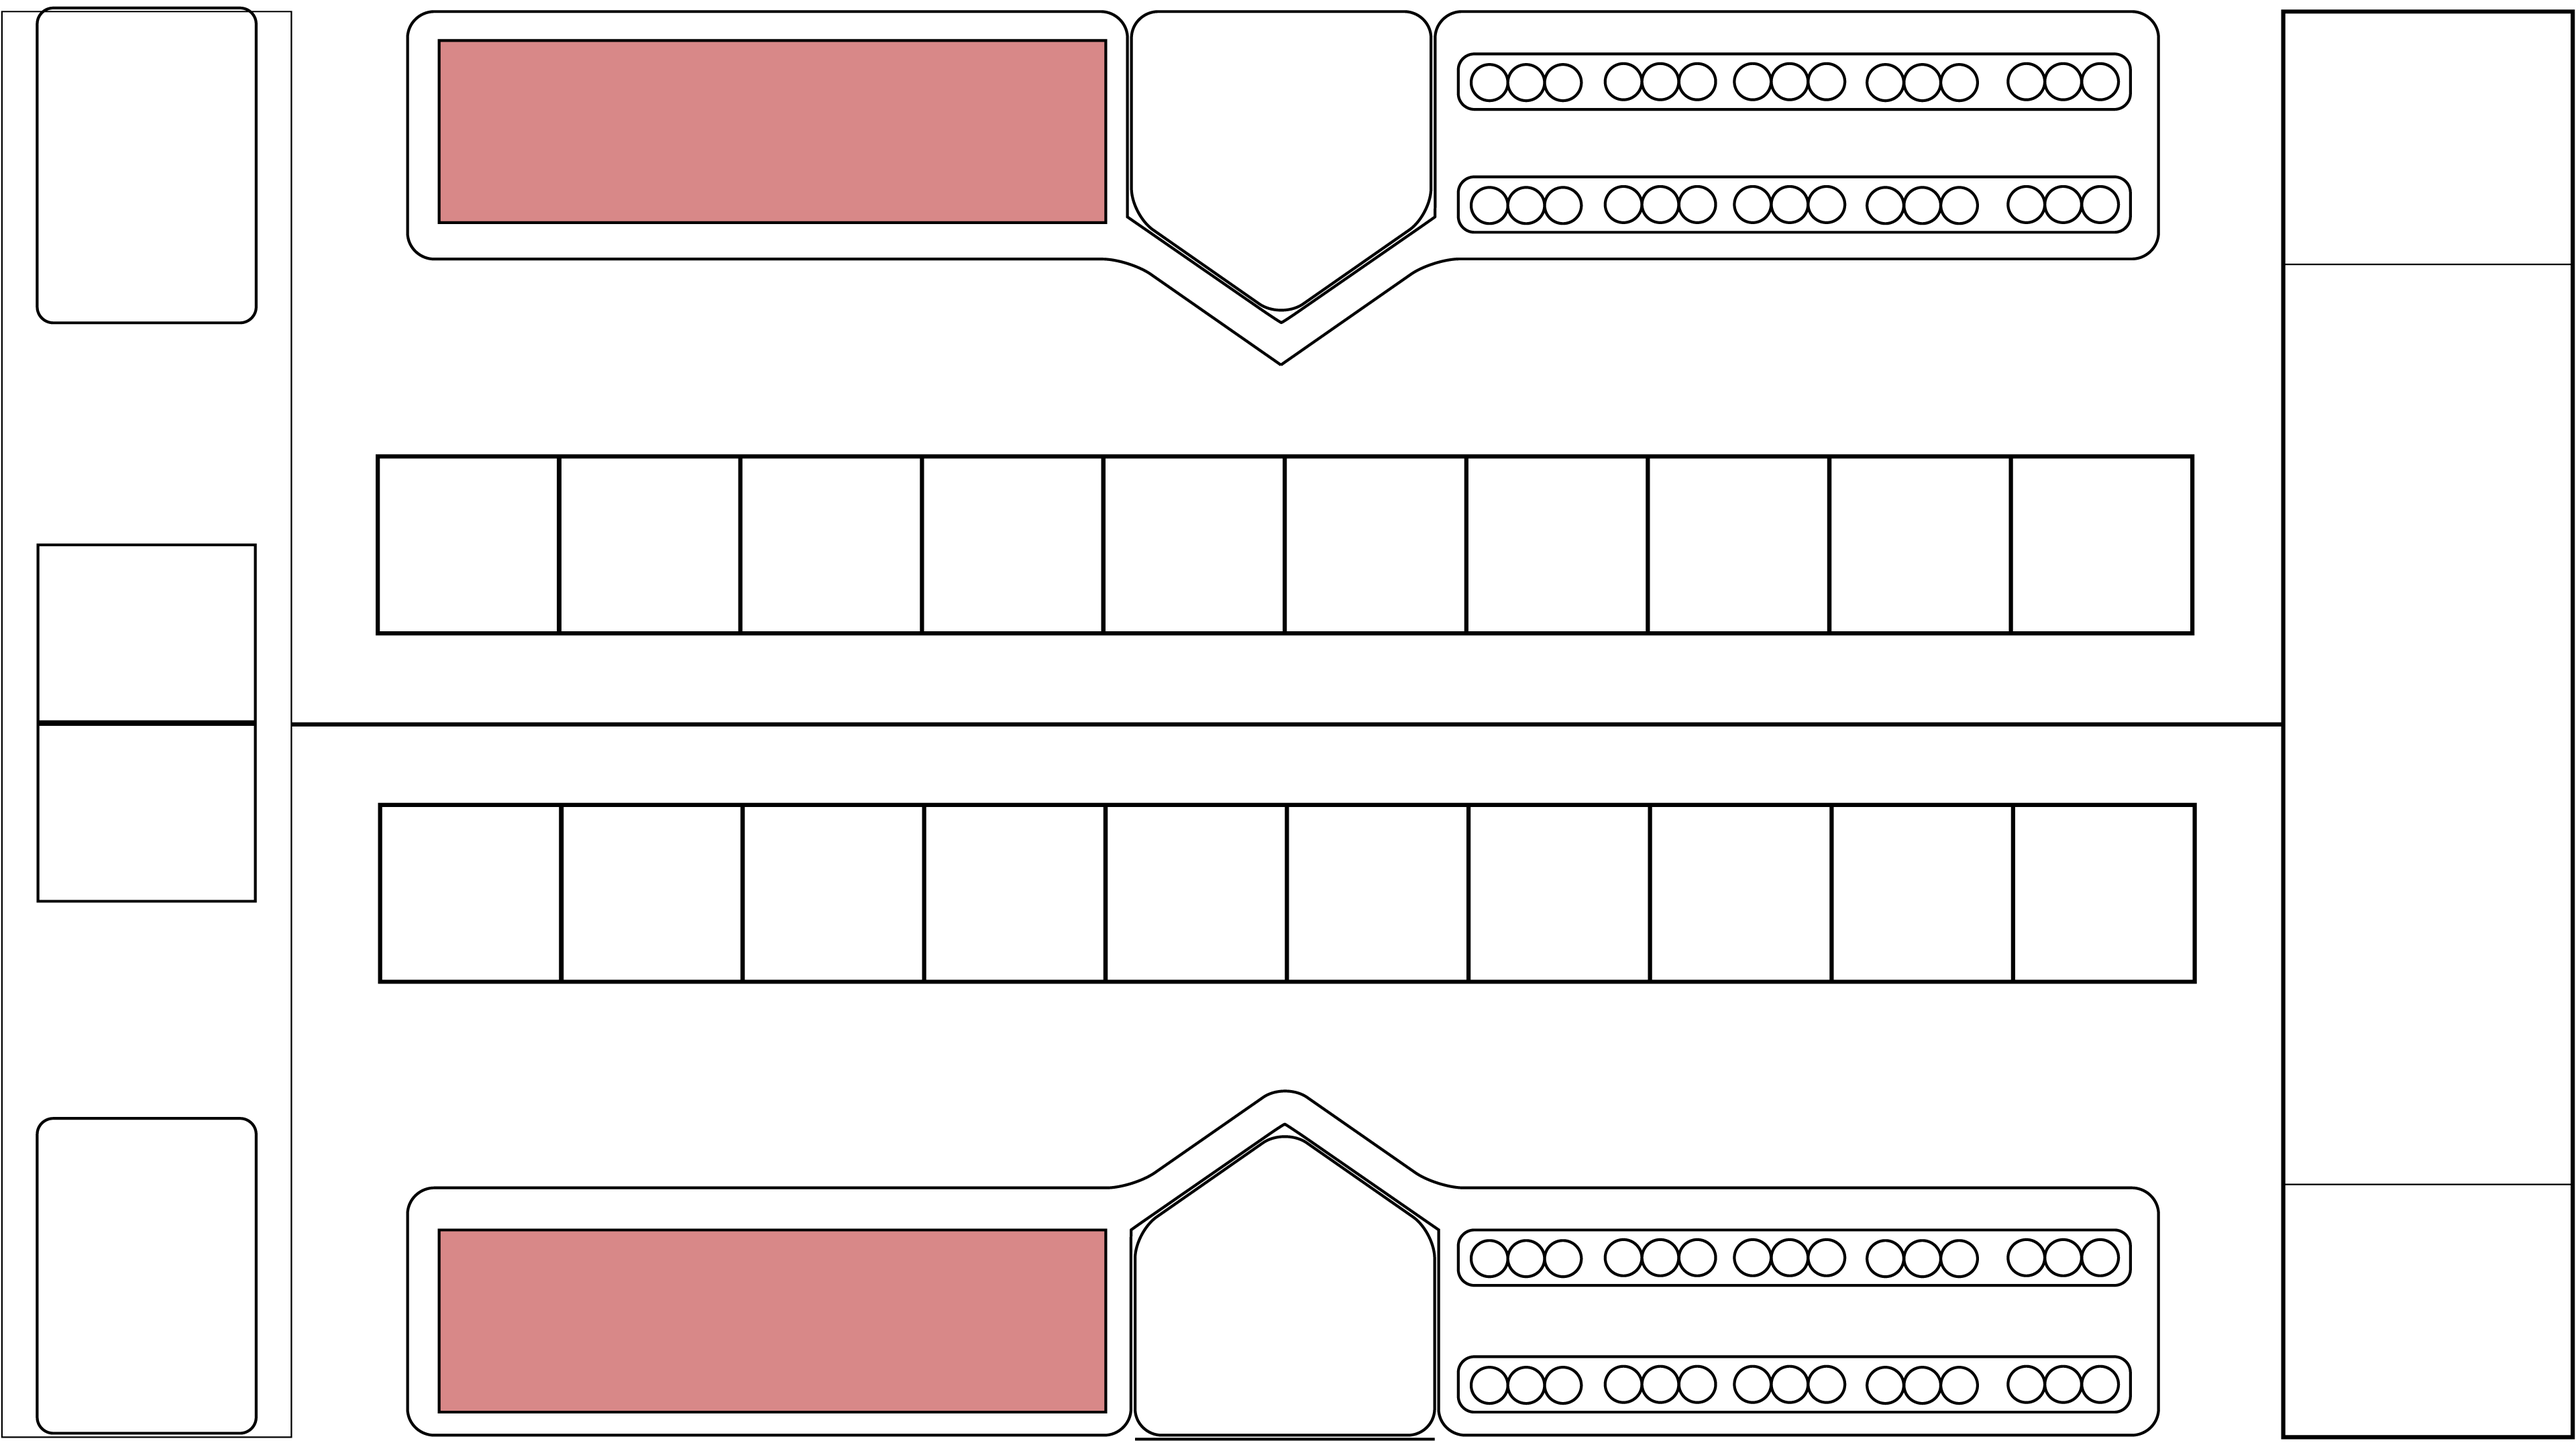
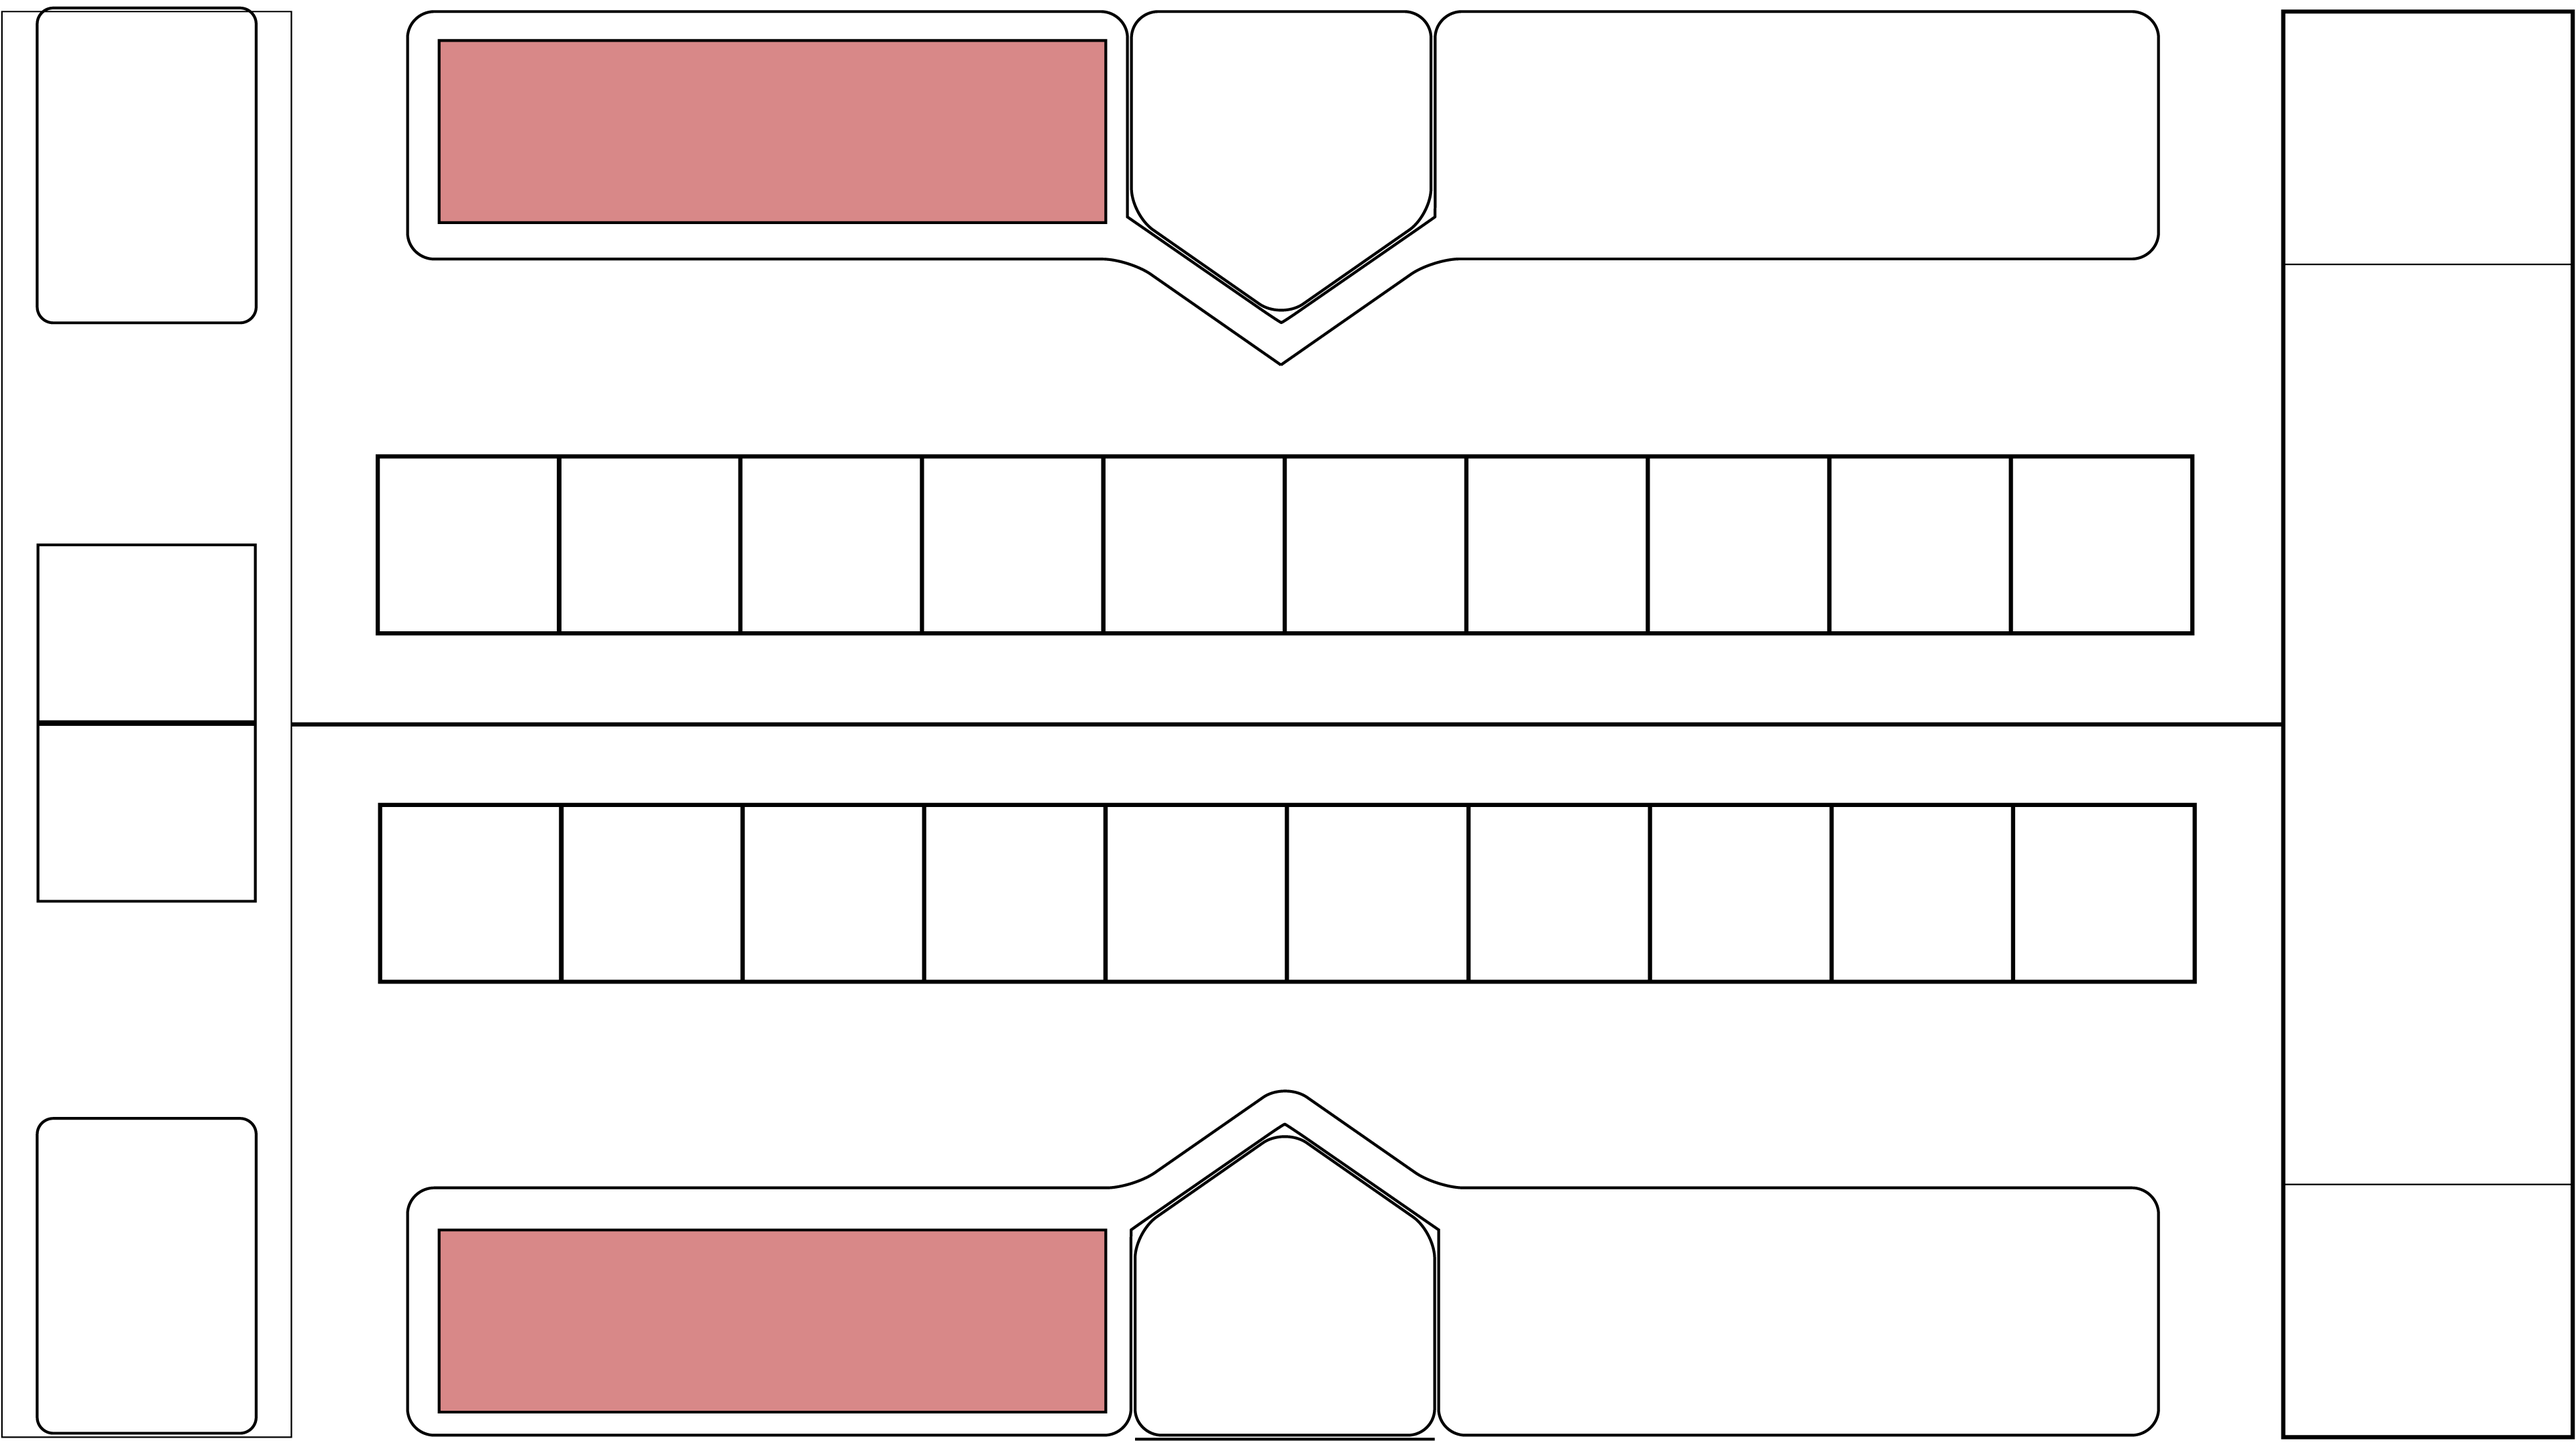
Add tokens to board

diff --git a/static/GameView.js b/static/GameView.js
@@ -347,6 +347,54 @@ let GameView = (function() {
         });
     }
 
+    function fixTokens() {
+
+        if(!(game.ownMonsterTokenText != undefined && game.ownMonsterTokens + '' == game.ownMonsterTokenText.text)) {
+            app.stage.removeChild(game.ownMonsterTokenText);
+            game.ownMonsterTokenText = new PIXI.Text(game.ownMonsterTokens, {fontFamily: 'Helvetica', fill: 0xffffff, fontSize: 100, stroke: 'black', strokeThickness: 8, align: 'center'});
+            game.ownMonsterTokenText.anchor.x = game.ownMonsterTokenText.y = .5;
+            game.ownMonsterTokenText.x = app.stage.width * .6255;
+            game.ownMonsterTokenText.y = app.stage.height * .839;
+            game.ownMonsterTokenText.width = app.stage.width * (game.ownMonsterTokenText.text.length == 1? .04 : .06);
+            game.ownMonsterTokenText.height = app.stage.height * .12;
+            app.stage.addChild(game.ownMonsterTokenText);
+        }
+
+        if(!(game.ownSpellTokenText != undefined && game.ownSpellTokens + '' == game.ownSpellTokenText.text)) {
+            app.stage.removeChild(game.ownSpellTokenText);
+            game.ownSpellTokenText = new PIXI.Text(game.ownSpellTokens, {fontFamily: 'Helvetica', fill: 0xffffff, fontSize: 100, stroke: 'black', strokeThickness: 8, align: 'center'});
+            game.ownSpellTokenText.anchor.x = game.ownSpellTokenText.y = .5;
+            game.ownSpellTokenText.x = app.stage.width * .776;
+            game.ownSpellTokenText.y = app.stage.height * .839;
+            game.ownSpellTokenText.width = app.stage.width * (game.ownSpellTokenText.text.length == 1? .04 : .06);
+            game.ownSpellTokenText.height = app.stage.height * .12;
+            app.stage.addChild(game.ownSpellTokenText);
+        }
+
+        if(!(game.enemyMonsterTokenText != undefined && game.enemyMonsterTokens + '' == game.enemyMonsterTokenText.text)) {
+            app.stage.removeChild(game.enemyMonsterTokenText);
+            game.enemyMonsterTokenText = new PIXI.Text(game.enemyMonsterTokens, {fontFamily: 'Helvetica', fill: 0xffffff, fontSize: 100, stroke: 'black', strokeThickness: 8, align: 'center'});
+            game.enemyMonsterTokenText.anchor.x = game.enemyMonsterTokenText.y = .5;
+            game.enemyMonsterTokenText.x = app.stage.width * .6255;
+            game.enemyMonsterTokenText.y = app.stage.height * .031;
+            game.enemyMonsterTokenText.width = app.stage.width * (game.enemyMonsterTokenText.text.length == 1? .04 : .06);
+            game.enemyMonsterTokenText.height = app.stage.height * .12;
+            app.stage.addChild(game.enemyMonsterTokenText);
+        }
+
+        if(!(game.enemySpellTokenText != undefined && game.enemySpellTokens + '' == game.enemySpellTokenText.text)) {
+            app.stage.removeChild(game.enemySpellTokenText);
+            game.enemySpellTokenText = new PIXI.Text(game.enemySpellTokens, {fontFamily: 'Helvetica', fill: 0xffffff, fontSize: 100, stroke: 'black', strokeThickness: 8, align: 'center'});
+            game.enemySpellTokenText.anchor.x = game.enemySpellTokenText.y = .5;
+            game.enemySpellTokenText.x = app.stage.width * .776;
+            game.enemySpellTokenText.y = app.stage.height * .031;
+            game.enemySpellTokenText.width = app.stage.width * (game.enemySpellTokenText.text.length == 1? .04 : .06);
+            game.enemySpellTokenText.height = app.stage.height * .12;
+            app.stage.addChild(game.enemySpellTokenText);
+        }
+
+    }
+
     /**
      * This function hasn't been defined yet. At some point the idea is to make it add a card to the enemy's hand.
      * There should also be a discardEnemyCard function, but that comes later.
@@ -407,7 +455,7 @@ let GameView = (function() {
             free to add more later on, although you'll have to make sure to add a line to loader.load adding your texture to the textures
             object.
             */
-            loader.add('background', '/static/assets/game-board.png').add('cardBack', '/static/assets/cardback.png').add('popup', '/static/assets/Brick_Border.png');
+            loader.add('background', '/static/assets/game-board.png').add('cardBack', '/static/assets/cardback.png').add('popup', '/static/assets/Brick_Border.png').add('tokenFrame', '/static/assets/tokenFrame.png');
 
             /*
             Remember the textures object from way up by, like, line 20? This is where we add stuff to it. This closure gets called when
@@ -417,6 +465,7 @@ let GameView = (function() {
                 textures.background = resources.background.texture;
                 textures.cardBack = resources.cardBack.texture;
                 textures.popup = resources.popup.texture;
+                textures.tokenFrame = resources.tokenFrame.texture;
             });
             loader.onProgress.add(() => {}); // called once per loaded/errored file //TODO: move this loading stuff into a new file
             loader.onError.add(() => {}); // called once per errored file
@@ -463,6 +512,20 @@ let GameView = (function() {
                 ownDeck.height = .212 * app.stage.height;
                 ownDeck.width = .0850 * app.stage.width;
                 app.stage.addChild(ownDeck);
+
+                let friendlyTokenFrame = new PIXI.Sprite(textures.tokenFrame);
+                friendlyTokenFrame.x = .585 * app.stage.width;
+                friendlyTokenFrame.y = .83 * app.stage.height;
+                friendlyTokenFrame.width = .23 * app.stage.width;
+                friendlyTokenFrame.height = .15 * app.stage.height;
+                app.stage.addChild(friendlyTokenFrame);
+
+                let enemyTokenFrame = new PIXI.Sprite(textures.tokenFrame);
+                enemyTokenFrame.x = .585 * app.stage.width;
+                enemyTokenFrame.y = .02 * app.stage.height;
+                enemyTokenFrame.width = .23 * app.stage.width;
+                enemyTokenFrame.height = .15 * app.stage.height;
+                app.stage.addChild(enemyTokenFrame);
 
                 
                 /*
@@ -515,6 +578,7 @@ let GameView = (function() {
                     app.stage.removeChild(ownDeck.popup);
                     ownDeck.popup = undefined;
                 });
+                fixTokens();
                 
             });
 

diff --git a/static/ClientGame.js b/static/ClientGame.js
@@ -47,6 +47,10 @@ class ClientGame {
 		this.enemyDeckSize = enemyStartingDeckSize - constants.STARTING_CARDS_DRAWN;
 		this.turnCounter = 0;
 		this.initialized = true;
+		this.ownMonsterTokens = 0;
+		this.ownSpellTokens = 0;
+		this.enemyMonsterTokens = 0;
+		this.enemySpellTokens = 0;
 	}
 
 	/**
